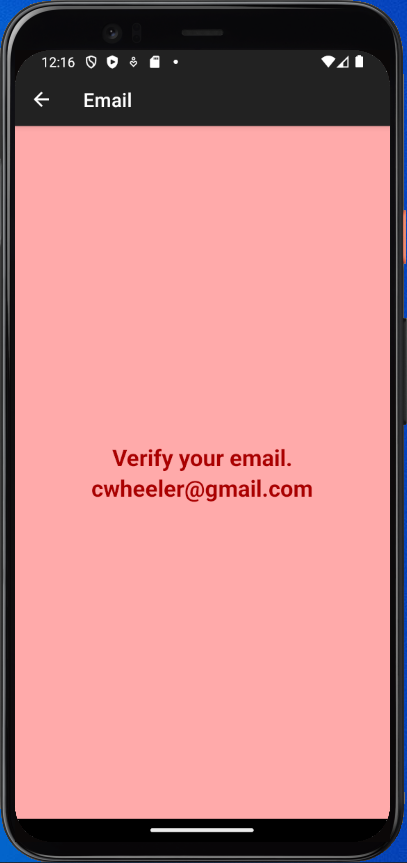
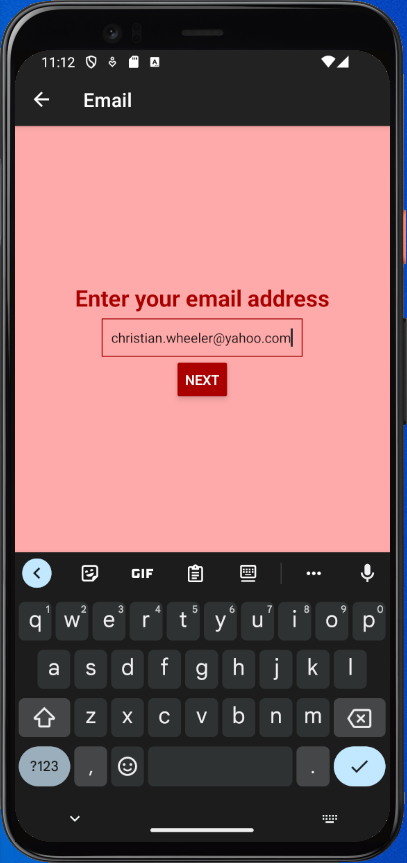
Finish Project S24

diff --git a/screens/ValidationScreen.js b/screens/ValidationScreen.js
@@ -1,0 +1,72 @@
+import { useContext } from "react";
+import { Text, View, StyleSheet, Button } from "react-native";
+
+import { UserContext } from "../context/userContext";
+
+function ValidationScreen({ navigation }) {
+  const userNameCtx = useContext(UserContext);
+
+  function yesBtnHandler() {
+    alert("Hooray, everything worked well!", navigation.popToTop());
+  }
+
+  function noBtnHandler() {
+    alert("Okay, you can enter information again.", navigation.popToTop());
+  }
+
+  return (
+    <View style={styles.container}>
+      <View style={styles.textContainer}>
+        <Text
+          style={styles.text}
+        >{`First Name: ${userNameCtx.firstName}`}</Text>
+        <Text style={styles.text}>{`Last Name: ${userNameCtx.lastName}`}</Text>
+        <Text style={styles.text}>{`Phone: ${userNameCtx.phoneNum}`}</Text>
+        <Text style={styles.text}>{`Email: ${userNameCtx.email}`}</Text>
+        <Text style={[styles.text, styles.question]}>
+          Is the above info correct?
+        </Text>
+      </View>
+      <View style={styles.buttonsContainer}>
+        <View style={styles.buttonContainer}>
+          <Button title="Yes" color="green" onPress={yesBtnHandler} />
+        </View>
+        <View style={styles.buttonContainer}>
+          <Button title="No" color="red" onPress={noBtnHandler} />
+        </View>
+      </View>
+    </View>
+  );
+}
+
+export default ValidationScreen;
+
+const styles = StyleSheet.create({
+  container: {
+    flex: 1,
+    backgroundColor: "#111",
+    flexDirection: "column",
+    justifyContent: "center",
+    alignItems: "center",
+    padding: 12,
+  },
+  textContainer: {
+    marginHorizontal: 36,
+  },
+  text: {
+    color: "#ddd",
+    fontSize: 18,
+    fontWeight: "bold",
+  },
+  question: {
+    marginVertical: 24,
+  },
+  buttonsContainer: {
+    flexDirection: "row",
+    justifyContent: "center",
+  },
+  buttonContainer: {
+    width: "25%",
+    marginHorizontal: 16,
+  },
+});

diff --git a/screens/GreenScreen.js b/screens/GreenScreen.js
@@ -1,15 +1,37 @@
-import { useContext } from "react";
-import { Text, View, StyleSheet } from "react-native";
+import { useContext, useState } from "react";
+import { Text, View, StyleSheet, TextInput, Button } from "react-native";
 
 import { UserContext } from "../context/userContext";
 
 function GreenScreen({ navigation }) {
-  const userNameCtx = useContext(UserContext);
+  const userPhoneCtx = useContext(UserContext);
+  const [phoneNum, setPhoneNum] = useState();
+
+  function onChangePhoneNum(newPhoneNum) {
+    setPhoneNum(newPhoneNum);
+  }
+
+  function onPressNext(){
+    userPhoneCtx.addPhoneNum(phoneNum);
+    navigation.navigate("Email");
+  }
 
   return (
     <View style={styles.container}>
-      <Text style={styles.text}>Verify your phone.</Text>
-      <Text style={styles.text}>{userNameCtx.phone}</Text>
+      <Text style={styles.text}>Enter your phone number</Text>
+      <TextInput
+        value={phoneNum}
+        placeholder="Phone Number"
+        onChangeText={onChangePhoneNum}
+        cursorColor="#333"
+        style={styles.input}
+        keyboardType="numeric"
+      />
+      <Button
+        title="Next"
+        color="darkgreen"
+        onPress={onPressNext}
+      />
     </View>
   );
 }
@@ -30,5 +52,13 @@ const styles = StyleSheet.create({
     fontSize: 24,
     fontWeight: "bold",
     textAlign: "center",
+  },
+  input: {
+    height: 40,
+    minWidth: 200,
+    margin: 6,
+    borderWidth: 1,
+    borderColor: "darkgreen",
+    padding: 10,
   },
 });

diff --git a/context/userContext.js b/context/userContext.js
@@ -3,18 +3,20 @@ import { createContext, useState } from "react";
 export const UserContext = createContext({
   firstName: "",
   lastName: "",
-  phone: "",
-  email: "",
+  // phoneNum: "",
+  // email: "",
+  addFirstName: (newFirstName) => {},
+  addLastName: (newLastName) => {},
+
 });
 
 function UserContextProvider({ children }) {
   // set up state
   const [firstName, setFirstName] = useState("");
   const [lastName, setLastName] = useState("");
-  const [phone, setPhone] = useState("");
+  const [phoneNum, setPhoneNum] = useState("");
   const [email, setEmail] = useState("");
 
-  // set up functions to use state
   function addFirstName(newFirstName) {
     setFirstName(newFirstName);
   }
@@ -23,8 +25,8 @@ function UserContextProvider({ children }) {
     setLastName(newLastName);
   }
 
-  function addPhone(newPhone) {
-    setPhone(newPhone);
+  function addPhoneNum(newPhoneNum) {
+    setPhoneNum(newPhoneNum);
   }
 
   function addEmail(newEmail) {
@@ -34,12 +36,12 @@ function UserContextProvider({ children }) {
   const value = {
     firstName: firstName,
     lastName: lastName,
-    phone: phone,
+    phoneNum: phoneNum,
     email: email,
-    setFirstName: setFirstName,
-    setLastName: setLastName,
-    setPhone: setPhone,
-    setEmail: setEmail,
+    addFirstName: addFirstName,
+    addLastName: addLastName,
+    addPhoneNum: addPhoneNum,
+    addEmail: addEmail,
   };
 
   return <UserContext.Provider value={value}>{children}</UserContext.Provider>;

diff --git a/screens/RedScreen.js b/screens/RedScreen.js
@@ -1,16 +1,32 @@
-import { useContext } from "react";
-import { Text, View, StyleSheet } from "react-native";
+import { useContext, useState } from "react";
+import { Text, View, StyleSheet, TextInput, Button } from "react-native";
 
 import { UserContext } from "../context/userContext";
 
-
 function RedScreen({ navigation }) {
-  const userNameCtx = useContext(UserContext);
+  const userEmailCtx = useContext(UserContext);
+  const [email, setEmail] = useState();
+
+  function onChangeEmail(newEmail) {
+    setEmail(newEmail);
+  }
+
+  function onPressNext() {
+    userEmailCtx.addEmail(email);
+    navigation.navigate("Validation");
+  }
 
   return (
     <View style={styles.container}>
-      <Text style={styles.text}>Verify your email.</Text>
-      <Text style={styles.text}>{userNameCtx.email}</Text>
+      <Text style={styles.text}>Enter your email address</Text>
+      <TextInput
+        value={email}
+        placeholder="email address"
+        onChangeText={onChangeEmail}
+        cursorColor="#333"
+        style={styles.input}
+      />
+      <Button title="Next" color="#a00" onPress={onPressNext} />
     </View>
   );
 }
@@ -31,5 +47,13 @@ const styles = StyleSheet.create({
     fontSize: 24,
     fontWeight: "bold",
     textAlign: "center",
+  },
+  input: {
+    height: 40,
+    minWidth: 200,
+    margin: 6,
+    borderWidth: 1,
+    borderColor: "#a00",
+    padding: 10,
   },
 });

diff --git a/App.js b/App.js
@@ -7,6 +7,7 @@ import BlueScreen from "./screens/BlueScreen";
 import GreenScreen from "./screens/GreenScreen";
 import RedScreen from "./screens/RedScreen";
 import UserContextProvider, { UserContext } from "./context/userContext";
+import ValidationScreen from "./screens/ValidationScreen";
 
 const Stack = createNativeStackNavigator();
 
@@ -14,8 +15,8 @@ export default function App() {
   return (
     <>
       <StatusBar style="light" />
-      <NavigationContainer>
-        <UserContextProvider>
+      <UserContextProvider>
+        <NavigationContainer>
           <Stack.Navigator
             screenOptions={{
               headerStyle: { backgroundColor: "#222" },
@@ -26,9 +27,10 @@ export default function App() {
             <Stack.Screen name="Name" component={BlueScreen} />
             <Stack.Screen name="Phone" component={GreenScreen} />
             <Stack.Screen name="Email" component={RedScreen} />
+            <Stack.Screen name="Validation" component={ValidationScreen} />
           </Stack.Navigator>
-        </UserContextProvider>
-      </NavigationContainer>
+        </NavigationContainer>
+      </UserContextProvider>
     </>
   );
 }

diff --git a/screens/BlueScreen.js b/screens/BlueScreen.js
@@ -13,7 +13,13 @@ function BlueScreen({ navigation }) {
   }
 
   function onChangeLastName(newLastName) {
-    setFirstName(newLastName);
+    setLastName(newLastName);
+  }
+
+  function onPressNext() {
+    userNameCtx.addFirstName(firstName);
+    userNameCtx.addLastName(lastName);
+    navigation.navigate("Phone");
   }
 
   return (
@@ -21,17 +27,19 @@ function BlueScreen({ navigation }) {
       <Text style={styles.text}>Enter your name</Text>
       <TextInput
         value={firstName}
-        placeholder={"First Name"}
+        placeholder="First Name"
         onChangeText={onChangeFirstName}
+        cursorColor="#333"
         style={styles.input}
       />
       <TextInput
         value={lastName}
-        placeholder={"Last Name"}
+        placeholder="Last Name"
         onChangeText={onChangeLastName}
+        cursorColor="#333"
         style={styles.input}
       />
-      <Button title="Next" onPress={() => console.log("pressed the button")} />
+      <Button title="Next" color="darkblue" onPress={onPressNext} />
     </View>
   );
 }
